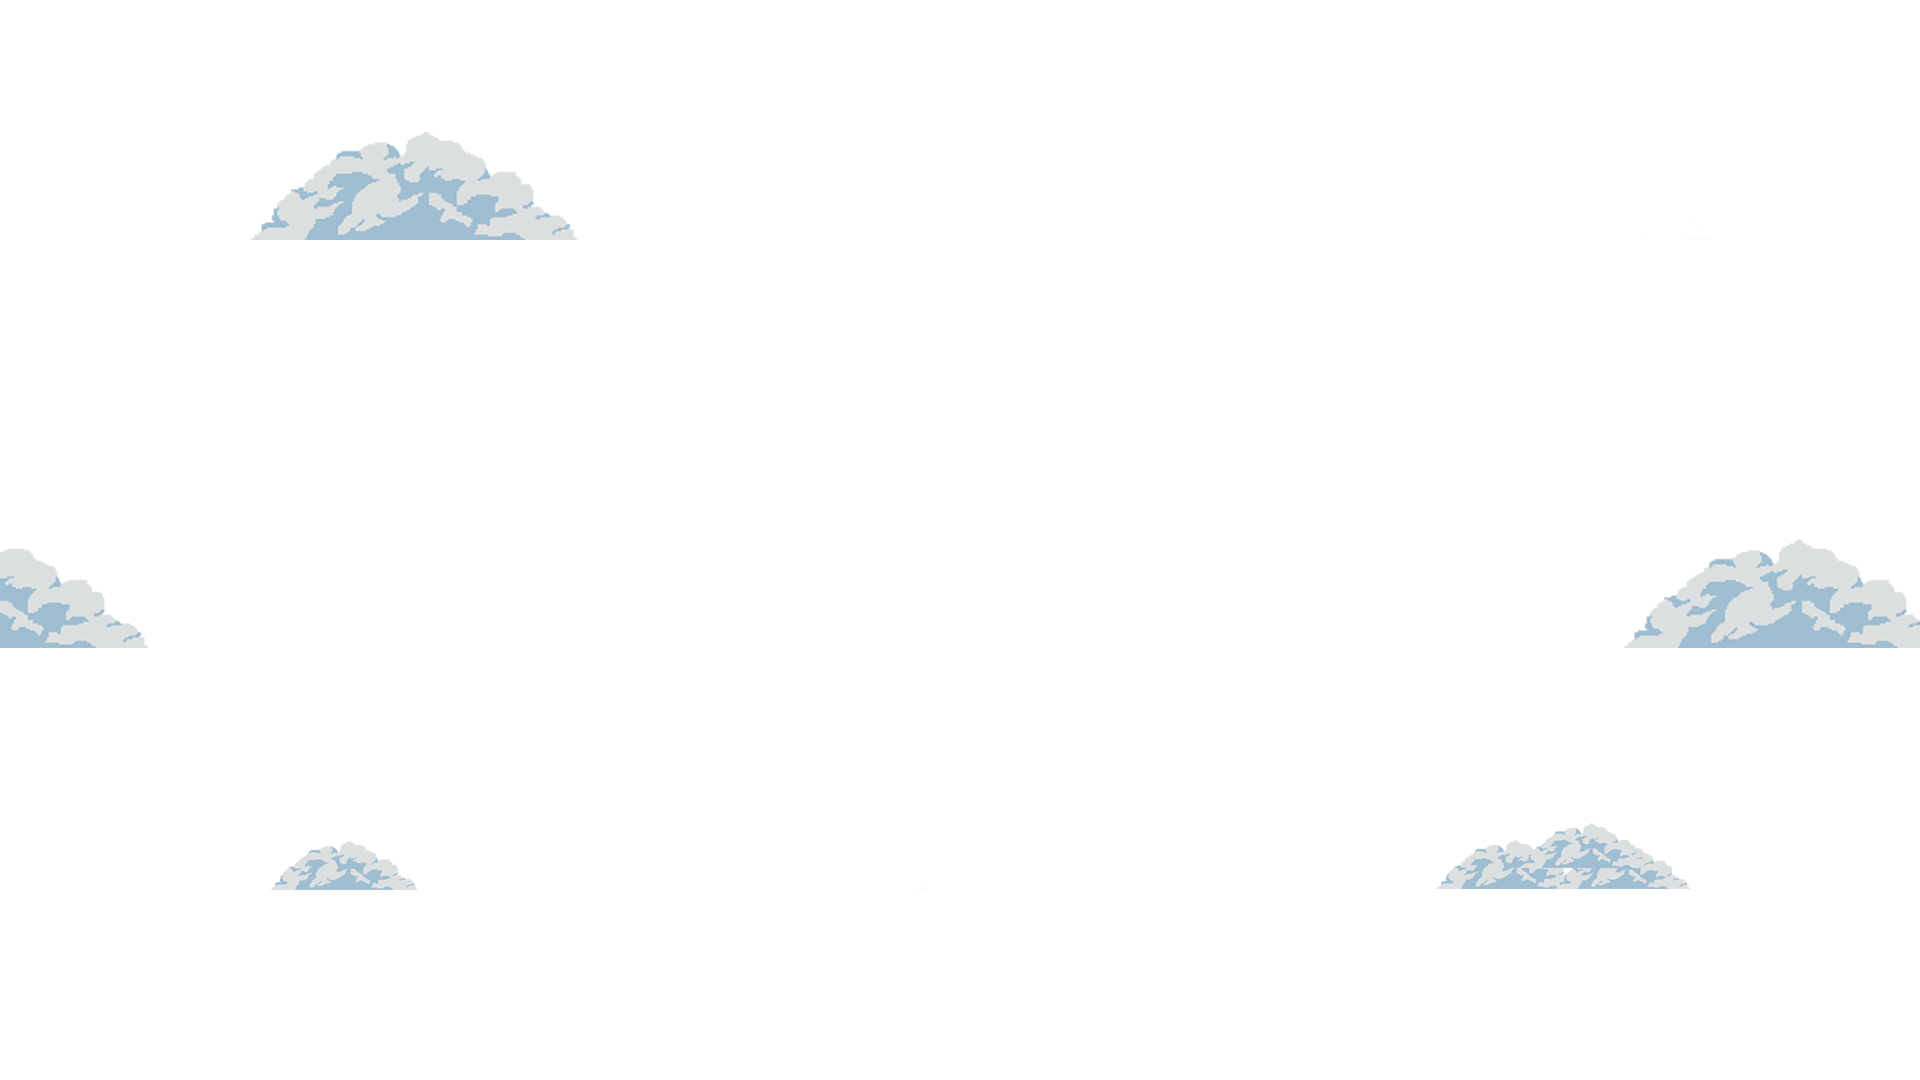
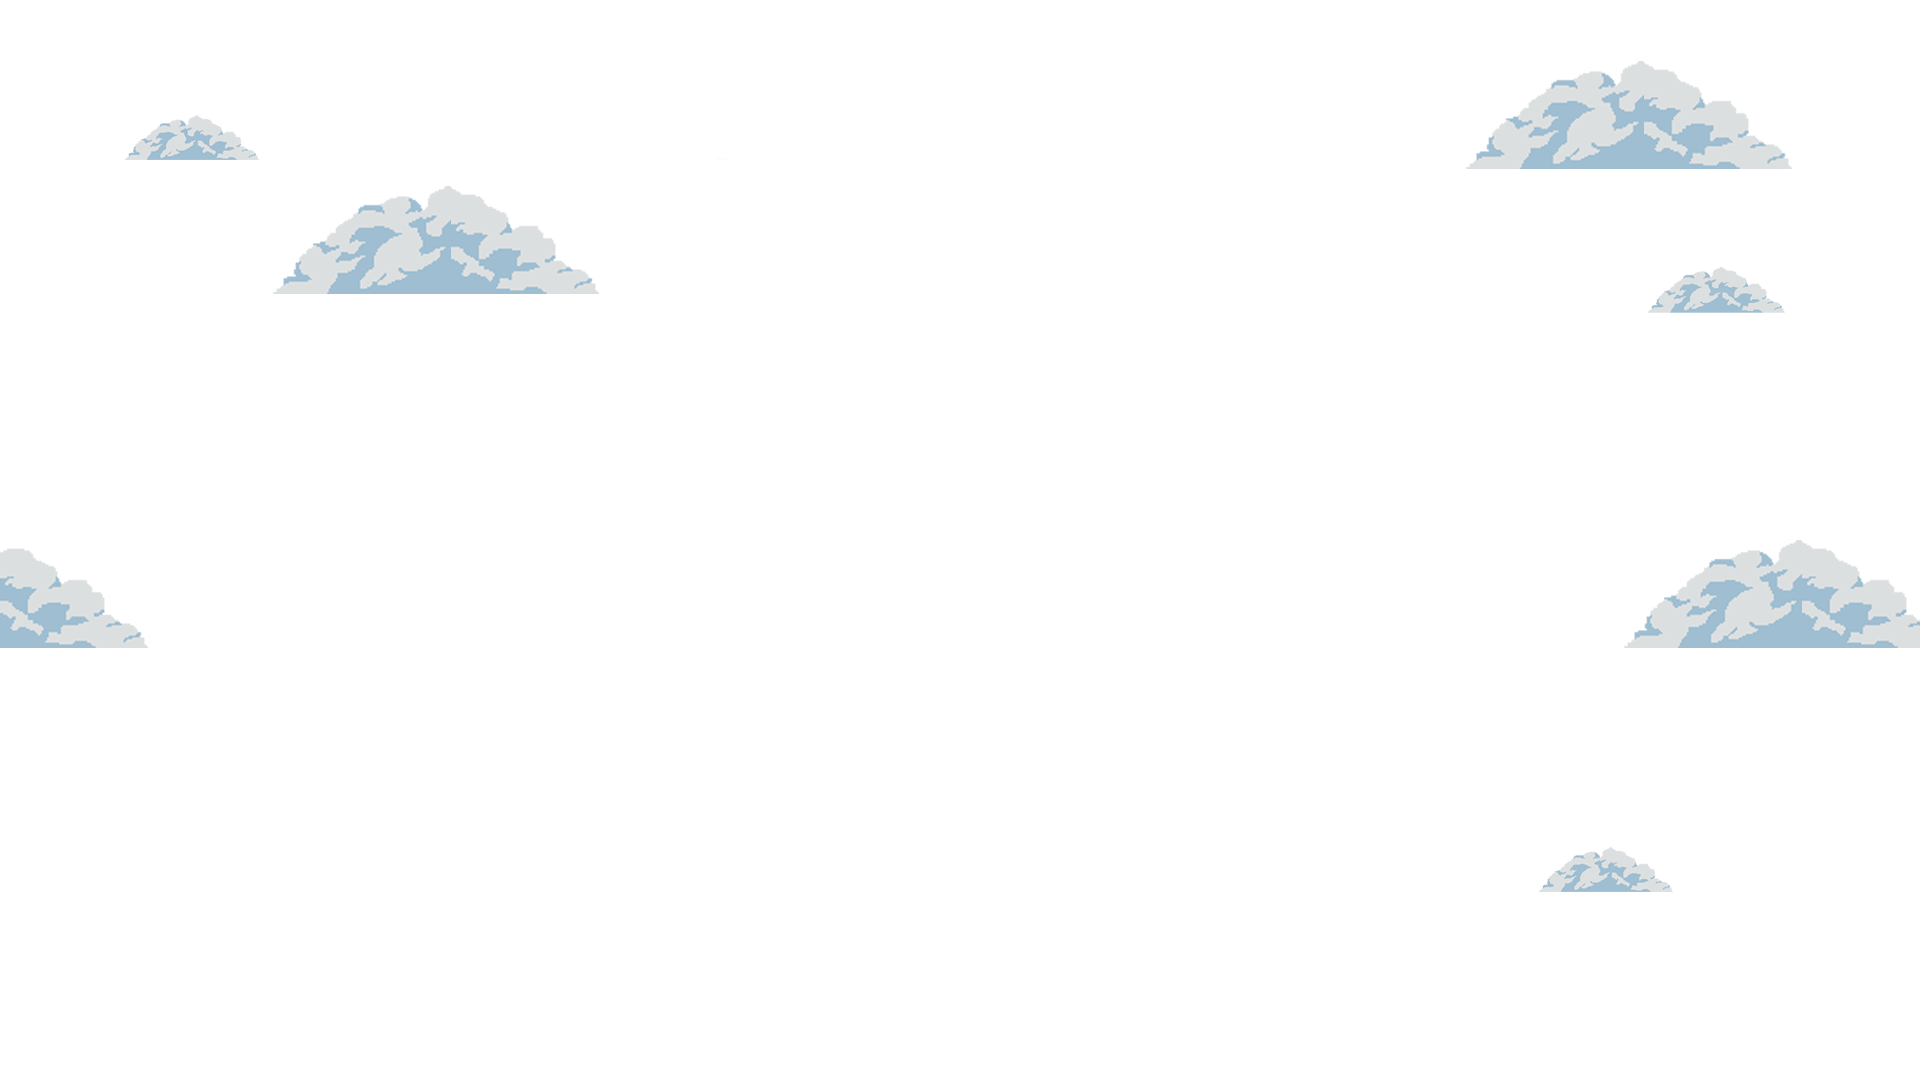
gestion du redimensionnement

diff --git a/shooter.jeu/jeu.py b/shooter.jeu/jeu.py
@@ -5,37 +5,42 @@ from viseur import Viseur
 
 class Jeu:
     def __init__(self):
+        
         # Création du groupe de sprites pour le viseur
         self.viseur = pygame.sprite.Group()
-        self.ajouterViseur()
+        self.ajouterViseur() # On ajoute un visuer par défaut
 
-        # Groupes de sprites pour les aigles et les grenouilles
+        # Groupes de sprites pour les cibles
         self.aigles = pygame.sprite.Group()
-        self.frog   = pygame.sprite.Group()
+        self.frogs   = pygame.sprite.Group()
 
-        # Chargement des images de l'environnement une seule fois
+        # Chargement des images de l'environnement
         self.back = pygame.image.load("shooter.jeu/assets/mode1/env/back.png")
         self.clouds     = pygame.image.load("shooter.jeu/assets/mode1/env/clouds.png")
         self.decor      = pygame.image.load("shooter.jeu/assets/mode1/env/tiles.png")
         self.rock       = pygame.image.load("shooter.jeu/assets/mode1/env/rock.png")
         self.sol        = pygame.image.load("shooter.jeu/assets/mode1/env/front.png")
+        
+        # Le joueur
 
+
+############################################################################################
+
+
+############################################################################################
     def jouer(self):
-        # Définition du titre de la fenêtre
-        pygame.display.set_caption("M-Shooter")
-
-        # Chargement et configuration de la police d'affichage
+        
+        pygame.display.set_caption("Esi-SHOOT")
         font = pygame.font.Font("shooter.jeu/assets/font/BPdots.otf", 16)
         font.set_bold(True)
-        score = 0  # Score initial
-
-        # Récupération des dimensions de l'écran (pour la première création de la fenêtre)
+    
+        score = 0
+        # Récupération des dimensions de l'écran
         info = pygame.display.Info()
         # On démarre avec une fenêtre à la moitié des dimensions de l'écran
         largeur = info.current_w // 2  
         hauteur = info.current_h // 2
 
-        # Création d'une fenêtre redimensionnable
         screen = pygame.display.set_mode((largeur, hauteur), pygame.RESIZABLE)
 
         # Définition d'un événement personnalisé pour le spawn des monstres (toutes les 2 secondes)
@@ -43,37 +48,31 @@ class Jeu:
         pygame.time.set_timer(SPAWN_EVENT, 2000)
 
         clock = pygame.time.Clock()
-        fps = 60      # Limite à 60 images par seconde
-        temps = 3000  # Temps de jeu en "ticks"
+        fps = 60 
+        temps = 3000
 
         running = True
         while running:
-            # Parcours de tous les événements
             for event in pygame.event.get():
                 if event.type == pygame.QUIT:
-                    # Si l'utilisateur ferme la fenêtre, on arrête le jeu
                     running = False
                     pygame.quit()
                 
                 # Gestion de l'événement de redimensionnement de la fenêtre
                 if event.type == pygame.VIDEORESIZE:
-                    largeur, hauteur = event.size  # Mise à jour des dimensions
-                    # Recréation de la fenêtre avec les nouvelles dimensions
+                    largeur, hauteur = event.size
                     screen = pygame.display.set_mode((largeur, hauteur), pygame.RESIZABLE)
-                    # Vous pouvez ajouter ici des actions supplémentaires (par exemple, recalculer des positions)
 
                 # Gestion du clic de souris pour tirer
                 if event.type == pygame.MOUSEBUTTONDOWN and event.button == 1:
-                    # Si le viseur détecte un tir sur un aigle, on augmente le score
                     if self.viseur.sprites()[0].detecteurTir(self.aigles):
                         score += 50
                         print(f"Score: {score}")
 
                 # Gestion de l'événement de spawn des monstres
                 if event.type == SPAWN_EVENT:
-                    x = largeur  # Position x à droite de l'écran
-                    # On s'assure que 'sol' ne déborde pas en utilisant la hauteur de l'image
-                    y = random.randint(0, hauteur - self.sol.get_height())
+                    x = largeur
+                    y = random.randint(0, hauteur - 50)
                     # On spawn des aigles avec des vitesses différentes selon le temps restant
                     if temps < 2500:
                         self.spawnAigles(x, y, 10)
@@ -85,36 +84,26 @@ class Jeu:
             # Redimensionnement dynamique des images en fonction des dimensions actuelles de la fenêtre
             background = pygame.transform.scale(self.back, (largeur, hauteur))
             clouds     = pygame.transform.scale(self.clouds, (largeur, hauteur))
-            decor = self.decor
-            
-            # Calcul d'un ratio de redimensionnement basé sur la largeur par rapport à la référence 1920
-            ratio = largeur / 1920
-            # Redimensionnement de l'image rock et sol en fonction du ratio calculé
-            rock = pygame.transform.scale(self.rock, (int(self.rock.get_width() * ratio), int(self.rock.get_height() * ratio)))
-            sol  = pygame.transform.scale(self.sol,  (int(self.sol.get_width() * ratio),  int(self.sol.get_height() * ratio)))
-
-            # Calcul des positions en pourcentages sur une référence de 1920 x 1080
-            pos_rock  = (int(0.4844 * largeur), int(0.7778 * hauteur))
-            pos_decor = (int(0.0 * largeur), int(0.7657 * hauteur))
-            pos_sol   = (int(0.0 * largeur), int(0.9444 * hauteur))
-
-            # Contrôle du nombre de ticks par seconde
+            sol =  pygame.transform.scale(self.sol, (largeur, hauteur))
+            rock =  pygame.transform.scale(self.rock, (largeur, hauteur))
+            decor =  pygame.transform.scale(self.decor, (largeur, hauteur))
+    
             clock.tick(fps)
 
             # Affichage des éléments de l'environnement dans l'ordre souhaité
             screen.blit(background, (0, 0))
             screen.blit(clouds, (0, 0))
-            screen.blit(rock, pos_rock)
-            screen.blit(decor, pos_decor)
-            screen.blit(sol, pos_sol)
+            screen.blit(rock, (0, 0))
+            screen.blit(decor, (0, 0))
+            screen.blit(sol, (0, 0))
 
             # Affichage et mise à jour des sprites des aigles
             self.aigles.draw(screen)
             self.aigles.update(True)
 
             # Affichage et mise à jour des sprites des grenouilles
-            self.frog.draw(screen)
-            self.frog.update()
+            self.frogs.draw(screen)
+            self.frogs.update()
 
             # Mise à jour et affichage du viseur
             self.viseur.update()
@@ -136,24 +125,23 @@ class Jeu:
             if temps <= 0:
                 running = False
             temps -= 1
+            
+############################################################################################
 
-            # Tick supplémentaire pour s'assurer du respect du fps (facultatif)
-            clock.tick(fps)
 
+############################################################################################
     def ajouterViseur(self):
         # Ajoute le viseur au groupe de sprites
         viseur = Viseur()
         self.viseur.add(viseur)
 
     def spawnAigles(self, x, y, speed):
-        # Crée un aigle et ajuste sa position pour qu'il soit entièrement visible
         aigle = Aigle(x, y, speed)
         h = aigle.getAigleHeight()  # Récupération de la hauteur de l'image de l'aigle
-        aigle = Aigle(x, y - h, speed)
+        aigle = Aigle(x, y - h, speed) # Pour éviter qu'une moitié de l'aigle ne spawn
         self.aigles.add(aigle)
     
     def spawnFrog(self, speed):
-        # Crée une grenouille et l'ajoute au groupe de sprites
         frog = Frog(speed)
-        self.frog.add(frog)
+        self.frogs.add(frog)
 

diff --git a/shooter.jeu/monstre.py b/shooter.jeu/monstre.py
@@ -40,7 +40,7 @@ class Aigle(pygame.sprite.Sprite):
 
     def getAigleHeight(self):
         return self.height
-       
+    
     def updateAnimation(self):
         self.animation_count += 1
 
@@ -106,7 +106,7 @@ class Frog(pygame.sprite.Sprite):
         self.image = self.walk[0]
         self.rect = self.image.get_rect()
 
-        self.rect.x = 10
+        self.rect.x = 10  
         self.rect.y = 941
 
         self.height = self.image.get_height()
